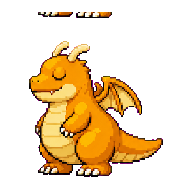
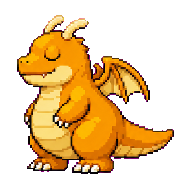
Fix boss hurt facing, add boss BGM, and refresh dragon idle art.
Mirror KMUTNB hurt clips correctly in battle, keep boss music during final-wave fights, and regenerate adult dragon idle sprites with largest-component cropping.

diff --git a/src/hub/battle/BotBattle.tsx b/src/hub/battle/BotBattle.tsx
@@ -20,6 +20,7 @@ import {
   type BotDifficulty
 } from '../../shared/battle/bot'
 import { BATTLE_DEFEAT_HOLD_MS } from '../../shared/battle/constants'
+import { setBgmTrack, getCurrentBgmTrack } from '../../shared/audio'
 import { BattleArena } from './BattleArena'
 
 interface Props {
@@ -82,7 +83,7 @@ function delay(ms: number): Promise<void> {
 }
 
 export function BotBattle({ pet, onComplete, onStartedChange }: Props) {
-  const { t } = useTranslation()
+  const { t, i18n } = useTranslation()
   const [difficulty, setDifficulty] = useState<BotDifficulty>('normal')
   const [started, setStarted] = useState(false)
   const [wave, setWave] = useState(1)
@@ -111,6 +112,17 @@ export function BotBattle({ pet, onComplete, onStartedChange }: Props) {
   useEffect(() => {
     onStartedChange?.(started)
   }, [onStartedChange, started])
+
+  useEffect(() => {
+    if (!started) return
+    setBgmTrack(isHardFinalBossWave(difficulty, wave) ? 'boss' : 'battle')
+  }, [difficulty, started, wave])
+
+  useEffect(() => () => {
+    if (getCurrentBgmTrack() === 'boss') {
+      setBgmTrack('battle')
+    }
+  }, [])
 
   useEffect(() => {
     if (wave <= 1) {
@@ -191,6 +203,14 @@ export function BotBattle({ pet, onComplete, onStartedChange }: Props) {
     return wave === totalWaves ? t('battle.bot.resultWin') : null
   }, [match.state.status, match.state.winnerUserId, t, totalWaves, wave])
 
+  const defenderPet = useMemo(
+    () => ({
+      ...match.bot,
+      name: t(`defaultPetNames.${match.bot.character}`)
+    }),
+    [match.bot, i18n.language, t]
+  )
+
   if (!started) {
     return <section className="bot-battle-setup" aria-labelledby="bot-difficulty-title">
       <div className="bot-setup-heading">
@@ -235,7 +255,7 @@ export function BotBattle({ pet, onComplete, onStartedChange }: Props) {
   return <div className="bot-battle-shell">
     <BattleArena
       session={asSession(match.state)} turns={turns} userId={LOCAL_PLAYER_USER_ID}
-      challengerName={pet.name} defenderName={match.bot.name} challengerPet={pet} defenderPet={match.bot}
+      challengerName={pet.name} defenderName={defenderPet.name} challengerPet={pet} defenderPet={defenderPet}
       battleItemCounts={match.playerItems} mode="bot" onAction={act}
       wave={wave} totalWaves={totalWaves} difficulty={difficulty}
       paused={paused} auto={auto} speed={speed}

diff --git a/src/shared/audio/chiptuneSequencer.ts b/src/shared/audio/chiptuneSequencer.ts
@@ -15,7 +15,7 @@ interface BeatEvent {
 }
 
 export class ChiptuneSequencer {
-  private readonly masterGain: GainNode
+  private masterGain: GainNode
   private timer: ReturnType<typeof setInterval> | null = null
   private track: MusicTrack | null = null
   private events: BeatEvent[] = []
@@ -47,11 +47,15 @@ export class ChiptuneSequencer {
 
   start(track: MusicTrack): void {
     this.stop(false)
+    this.masterGain = this.context.createGain()
+    this.masterGain.gain.value = 0.0001
+    this.masterGain.connect(this.context.destination)
     this.track = track
     this.targetGain = track.masterGain
     this.events = buildBeatEvents(track)
     this.loopEpoch = this.context.currentTime + 0.05
     this.scheduledKeys.clear()
+    this.activeVoices = 0
     this.paused = false
     this.applyMasterGain(this.targetGain * this.volumeMultiplier * BGM_BUS_GAIN)
     this.timer = setInterval(() => this.tick(), TICK_MS)
@@ -63,18 +67,24 @@ export class ChiptuneSequencer {
       clearInterval(this.timer)
       this.timer = null
     }
+    const bus = this.masterGain
     const now = this.context.currentTime
     if (fade) {
-      this.masterGain.gain.cancelScheduledValues(now)
-      this.masterGain.gain.setValueAtTime(Math.max(0.0001, this.masterGain.gain.value), now)
-      this.masterGain.gain.linearRampToValueAtTime(0.0001, now + CROSSFADE_SEC)
+      bus.gain.cancelScheduledValues(now)
+      bus.gain.setValueAtTime(Math.max(0.0001, bus.gain.value), now)
+      bus.gain.linearRampToValueAtTime(0.0001, now + CROSSFADE_SEC)
+      window.setTimeout(() => {
+        try { bus.disconnect() } catch { /* already disconnected */ }
+      }, CROSSFADE_SEC * 1000 + 50)
     } else {
-      this.masterGain.gain.cancelScheduledValues(now)
-      this.masterGain.gain.setValueAtTime(0.0001, now)
+      bus.gain.cancelScheduledValues(now)
+      bus.gain.setValueAtTime(0.0001, now)
+      try { bus.disconnect() } catch { /* already disconnected */ }
     }
     this.track = null
     this.events = []
     this.scheduledKeys.clear()
+    this.activeVoices = 0
     this.targetGain = 0
   }
 

diff --git a/src/shared/dinoAnim.ts b/src/shared/dinoAnim.ts
@@ -1,4 +1,5 @@
 import type { AnimationState, PetData } from './types'
+import { battleClipFlipX, battleHurtClipFlipX } from './creatureCharacters'
 import { getMoodLabel, shouldBeSick } from './stats'
 import type { PetSpriteFolder } from './petSprites'
 import {
@@ -46,8 +47,8 @@ export function resolvePetClip(
 
   const folder = bodyFolder(pet)
 
-  if (movementAnim === 'battle_attack') return { folder, clip: 'bite', flipX: IDLE_FLIP_X }
-  if (movementAnim === 'battle_hurt') return { folder, clip: 'hurt', flipX: IDLE_FLIP_X }
+  if (movementAnim === 'battle_attack') return { folder, clip: 'bite', flipX: battleClipFlipX(pet.character) }
+  if (movementAnim === 'battle_hurt') return { folder, clip: 'hurt', flipX: battleHurtClipFlipX(pet.character) }
 
   if (pet.animationState === 'eat') return { folder, clip: 'bite', flipX: IDLE_FLIP_X }
   if (pet.animationState === 'happy') return { folder, clip: 'jump', flipX: IDLE_FLIP_X }
@@ -56,8 +57,8 @@ export function resolvePetClip(
   }
   if (pet.animationState === 'sleep') return { folder, clip: 'idle', flipX: IDLE_FLIP_X }
   if (pet.animationState === 'evolve') return { folder, clip: 'jump', flipX: IDLE_FLIP_X }
-  if (pet.animationState === 'battle_attack') return { folder, clip: 'bite', flipX: IDLE_FLIP_X }
-  if (pet.animationState === 'battle_hurt') return { folder, clip: 'hurt', flipX: IDLE_FLIP_X }
+  if (pet.animationState === 'battle_attack') return { folder, clip: 'bite', flipX: battleClipFlipX(pet.character) }
+  if (pet.animationState === 'battle_hurt') return { folder, clip: 'hurt', flipX: battleHurtClipFlipX(pet.character) }
   if (pet.stats.health <= 0) return { folder, clip: 'hurt', flipX: IDLE_FLIP_X }
 
   if (shouldBeSick(pet.stats)) return { folder, clip: 'hurt', flipX: IDLE_FLIP_X }

diff --git a/src/styles.css b/src/styles.css
@@ -6792,10 +6792,23 @@ button.dash-hud-avatar--btn:disabled {
 .bot-result-title img { width: 50px; height: 50px; object-fit: contain; }
 .rpg-stage { position: relative; }
 .rpg-wave-notice {
-  position: absolute; z-index: 8; top: 50%; left: 50%; transform: translate(-50%, -50%);
-  padding: 14px 24px; color: #2a1509; background: linear-gradient(180deg, #ffe08a, #f4a62f);
-  border: 4px solid #40200d; box-shadow: 5px 5px 0 rgba(25, 10, 3, .72);
-  font-size: clamp(1rem, 3vw, 1.5rem); font-weight: 900; white-space: nowrap;
+  position: relative;
+  z-index: 4;
+  align-self: center;
+  width: fit-content;
+  max-width: min(92%, 520px);
+  margin: -2px auto 6px;
+  padding: 10px 20px;
+  color: #2a1509;
+  background: linear-gradient(180deg, #ffe08a, #f4a62f);
+  border: 4px solid #40200d;
+  box-shadow: 5px 5px 0 rgba(25, 10, 3, .72);
+  font-size: clamp(.82rem, 2.2vw, 1.15rem);
+  font-weight: 900;
+  line-height: 1.35;
+  text-align: center;
+  white-space: normal;
+  pointer-events: none;
   animation: rpg-wave-arrive 1.1s ease-in-out both;
 }
 .rpg-floating-damage {
@@ -6940,9 +6953,9 @@ button.dash-hud-avatar--btn:disabled {
   100% { opacity: 0; transform: translate(-50%, -48px) scale(1); }
 }
 @keyframes rpg-wave-arrive {
-  0% { opacity: 0; transform: translate(-50%, -50%) scale(.65); }
-  22%, 72% { opacity: 1; transform: translate(-50%, -50%) scale(1); }
-  100% { opacity: 0; transform: translate(-50%, -70%) scale(1.08); }
+  0% { opacity: 0; transform: scale(.65); }
+  22%, 72% { opacity: 1; transform: scale(1); }
+  100% { opacity: 0; transform: translateY(-10px) scale(1.04); }
 }
 @keyframes rpg-result-arrive {
   from { opacity: 0; transform: translateY(10px); }

diff --git a/src/shared/audio/musicTracks.ts b/src/shared/audio/musicTracks.ts
@@ -136,6 +136,49 @@ const BATTLE_TRACK: MusicTrack = {
   ]
 }
 
+const A3 = 220
+const A5 = 880
+
+const BOSS_BATTLE_TRACK: MusicTrack = {
+  bpm: 168,
+  beatsPerBar: 4,
+  bars: 4,
+  masterGain: 0.18,
+  channels: [
+    {
+      wave: 'square',
+      gain: 0.52,
+      pattern: repeatPattern([
+        note(A5, 0.25), note(G5, 0.25), note(E5, 0.25), note(C5, 0.25),
+        note(D5, 0.5), note(E5, 0.5), note(A5, 0.5), note(G5, 0.5),
+        note(E5, 0.25), note(C5, 0.25), note(A4, 0.25), note(E4, 0.25),
+        note(A4, 1), note(E4, 1),
+        note(C5, 0.5), note(A4, 0.5), note(G4, 0.5), note(E4, 0.5)
+      ], 2)
+    },
+    {
+      wave: 'square',
+      gain: 0.42,
+      pattern: repeatPattern([note(A2, 1), note(E2, 1), note(G2, 1), note(A2, 1)], 4)
+    },
+    {
+      wave: 'triangle',
+      gain: 0.38,
+      pattern: repeatPattern([
+        note(A3, 2), note(C4, 2), note(E4, 2), note(A3, 2)
+      ], 2)
+    },
+    {
+      wave: 'noise',
+      gain: 0.16,
+      pattern: repeatPattern([
+        note(950, 0.125), rest(0.125), note(950, 0.125), rest(0.125),
+        note(750, 0.125), rest(0.125), note(750, 0.125), rest(0.125)
+      ], 16)
+    }
+  ]
+}
+
 const MINIGAME_TRACK: MusicTrack = {
   bpm: 130,
   beatsPerBar: 4,
@@ -169,6 +212,7 @@ export const MUSIC_TRACKS: Record<BgmId, MusicTrack> = {
   title: TITLE_TRACK,
   hub: HUB_TRACK,
   battle: BATTLE_TRACK,
+  boss: BOSS_BATTLE_TRACK,
   minigame: MINIGAME_TRACK
 }
 

diff --git a/src/shared/creatureCharacters.ts b/src/shared/creatureCharacters.ts
@@ -66,6 +66,35 @@ export function creatureDisplaySize(stage: Stage): number {
 
 export type CreatureStageFolder = 'egg' | 'baby' | 'adult'
 
+/** Default facing in raw sprite sheets before canvas/CSS mirroring. */
+export const CREATURE_ART_FACING: Record<CreatureSpecies, 'left' | 'right'> = {
+  neutral: 'left',
+  fire: 'left',
+  grass: 'left',
+  ground: 'left',
+  electric: 'left',
+  water: 'left',
+  ice: 'left',
+  dragon: 'left',
+  dark: 'left',
+  kmutnb: 'right'
+}
+
+export function creatureArtFacing(species: string): 'left' | 'right' {
+  return isCreatureSpecies(species) ? CREATURE_ART_FACING[species] : 'left'
+}
+
+/** Battle clips render toward screen-right before defender-side CSS mirroring. */
+export function battleClipFlipX(species: string): boolean {
+  return creatureArtFacing(species) === 'left'
+}
+
+/** Hurt sheets that face the opposite way from the species' default battle art. */
+export function battleHurtClipFlipX(species: string): boolean {
+  if (species === 'kmutnb') return true
+  return battleClipFlipX(species)
+}
+
 export const CREATURE_PREVIEW_COLORS: Record<CreatureSpecies, string> = {
   neutral: '#a9a38f',
   fire: '#e85d3f',

diff --git a/src/hub/battle/BattleArena.tsx b/src/hub/battle/BattleArena.tsx
@@ -272,7 +272,6 @@ export function BattleArena({
       </div>
 
       <div className="rpg-scene">
-        {announcement && <div className="rpg-wave-notice" role="status">{announcement}</div>}
         <div className="rpg-scene-statuses">
           <div className={`rpg-status${session.status === 'active' && session.turnUserId === session.challengerUserId ? ' is-active-turn' : ''}`}>
             <div className="rpg-status-head"><strong>{challengerPet?.name ?? challengerName}</strong><ElementBadges pet={challengerPet} /></div>
@@ -289,6 +288,8 @@ export function BattleArena({
             <ResourceBar label="MP" value={session.defenderMp} max={defenderMpMax} className="rpg-bar--mp" />
           </div>
         </div>
+
+        {announcement && <div className="rpg-wave-notice" role="status">{announcement}</div>}
 
         <div className={`rpg-scene-main${mode === 'bot' && rewardPreview ? ' rpg-scene-main--with-info' : ''}`}>
           <div ref={stageRef} className="battle-stage rpg-stage">

diff --git a/src/App.tsx b/src/App.tsx
@@ -10,7 +10,7 @@ import {
 import { setSessionIsAdmin } from './shared/sessionFlags'
 import { isAdminRole } from './shared/userRole'
 import { setGameSpeedMultiplier, type GameSpeedMultiplier } from './shared/gameSpeed'
-import { playSfx, pauseBgm, setBgmTrack } from './shared/audio'
+import { playSfx, pauseBgm, setBgmTrack, getCurrentBgmTrack } from './shared/audio'
 import './i18n'
 import { GetStarted } from './hub/GetStarted'
 import { LoginGate } from './hub/LoginGate'
@@ -299,7 +299,9 @@ function AppContent({ variant = 'desktop' }: Props) {
       return
     }
     if (mainView === 'battle') {
-      setBgmTrack('battle')
+      if (getCurrentBgmTrack() !== 'boss') {
+        setBgmTrack('battle')
+      }
       return
     }
     setBgmTrack('hub')

diff --git a/src/shared/dinoAnim.test.ts b/src/shared/dinoAnim.test.ts
@@ -35,4 +35,18 @@ describe('resolvePetClip', () => {
       flipX: true
     })
   })
+
+  it('mirrors boss hurt art because the hurt sheet faces left', () => {
+    const bossPet = { ...adultPet, character: 'kmutnb' as const, elementPrimary: 'electric' as const }
+    expect(resolvePetClip(bossPet, 0, 'battle_attack')).toEqual({
+      folder: 'adult',
+      clip: 'bite',
+      flipX: false
+    })
+    expect(resolvePetClip(bossPet, 0, 'battle_hurt')).toEqual({
+      folder: 'adult',
+      clip: 'hurt',
+      flipX: true
+    })
+  })
 })

diff --git a/src/shared/audio/soundManager.ts b/src/shared/audio/soundManager.ts
@@ -101,6 +101,7 @@ class SoundManager {
       return
     }
 
+    const previous = this.currentBgmTrack
     this.currentBgmTrack = id
 
     if (!id || typeof window === 'undefined') {
@@ -108,13 +109,15 @@ class SoundManager {
       return
     }
 
-    if (this.muted) {
+    if (previous !== id) {
       this.stopBgmPlayback(false)
+    }
+
+    if (this.muted) {
       return
     }
 
     if (!this.unlocked) {
-      this.stopBgmPlayback(false)
       return
     }
 

diff --git a/src/shared/audio/musicManager.test.ts b/src/shared/audio/musicManager.test.ts
@@ -44,7 +44,7 @@ describe('musicManager', () => {
   })
 
   it('exposes every bgm id in the track catalog without duplicates', () => {
-    expect(BGM_IDS).toEqual(['title', 'hub', 'battle', 'minigame'])
+    expect(BGM_IDS).toEqual(['title', 'hub', 'battle', 'boss', 'minigame'])
     expect(new Set(BGM_IDS).size).toBe(BGM_IDS.length)
     for (const id of BGM_IDS) {
       expect(MUSIC_TRACKS[id]).toBeDefined()

diff --git a/src/shared/audio/musicIds.ts b/src/shared/audio/musicIds.ts
@@ -1,3 +1,3 @@
-export const BGM_IDS = ['title', 'hub', 'battle', 'minigame'] as const
+export const BGM_IDS = ['title', 'hub', 'battle', 'boss', 'minigame'] as const
 
 export type BgmId = (typeof BGM_IDS)[number]
